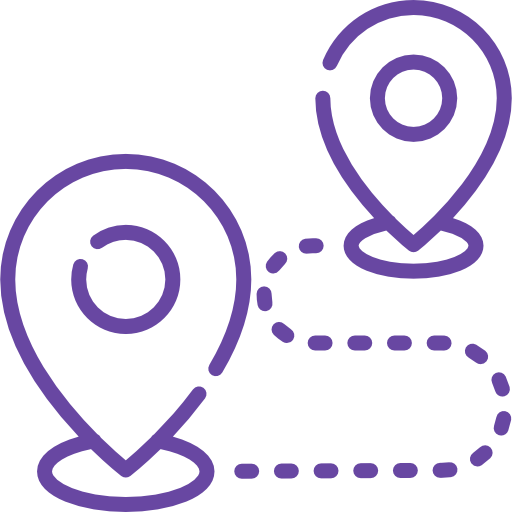
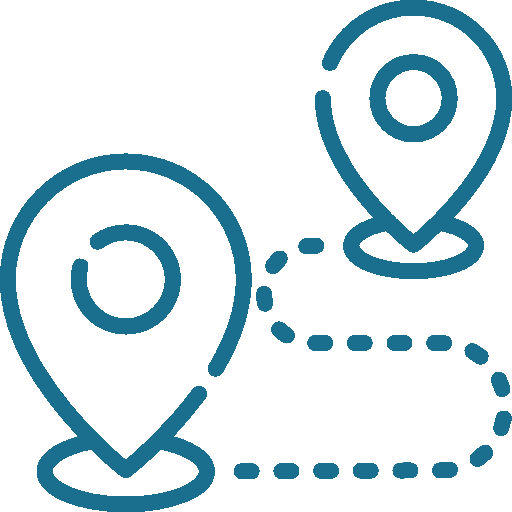
rebranding

diff --git a/public/css/style.css b/public/css/style.css
@@ -59,7 +59,7 @@ a:hover {
     text-decoration: none;
 }
 a:focus, a:hover {
-    color: #6847a2;
+    color: #196f8d;
    
 }
 .no-margin {
@@ -139,7 +139,7 @@ a:focus, a:hover {
 .nav>li.active>a:focus,
 .nav>li.active>a:hover {
     text-decoration: none;
-    background-color: #6847a2;
+    background-color: #196f8d;
     color: #fff;
 }
 
@@ -160,7 +160,7 @@ a:focus, a:hover {
     bottom: 0;
     left: 0;
     right: 0;
-    background-color:rgba(104, 71, 162, 0.70);
+    background-color:#196f8d;
 }
 
 .banner-head {
@@ -213,17 +213,17 @@ a:focus, a:hover {
     font-size: 12px;
     font-weight: 600;
     letter-spacing: 1px;
-    color: #6847a2;
+    color: #196f8d;
 }
 .banner-form h5:hover{
-    color: #6847a2 !important;
+    color: #196f8d !important;
 }
 
 .banner-form h5 i:hover{
-    color: #6847a2 !important;
+    color: #196f8d !important;
 }
 .banner-form h5 i {
-    color: #6847a2 !important;
+    color: #196f8d !important;
     -webkit-transition: all .1s cubic-bezier(.9, 0, .1, 1);
     transition: all .1s cubic-bezier(.9, 0, .1, 1);
 }
@@ -249,7 +249,7 @@ a:focus, a:hover {
 }
 
 .note-or a {
-    color: #6847a2;
+    color: #196f8d;
 }
 
 .note-or:hover a,
@@ -264,7 +264,7 @@ a:focus, a:hover {
     margin: 10px;
     font-weight: 500;
     font-size: 16px !important;
-    background-color: #6847a2;
+    background-color: #196f8d;
     color: #fff;
     border-radius: 30px;
     box-shadow: 1px 1px 5px #998daf;
@@ -317,7 +317,7 @@ a:focus, a:hover {
     font-size: 12px;
     font-weight: 600;
     letter-spacing: 1px;
-    color: #6847a2;
+    color: #196f8d;
 }
 
 .content-more i {
@@ -372,7 +372,7 @@ a:focus, a:hover {
     font-size: 12px;
     font-weight: 600;
     letter-spacing: 1px;
-    background-color: #6847a2;
+    background-color: #196f8d;
     color: #fff;
     padding: 15px 20px;
     display: inline-block;
@@ -380,7 +380,7 @@ a:focus, a:hover {
 }
 
 .content-more-btn i {
-    /*background-color: #6847a2;*/
+    /*background-color: #196f8d;*/
     color: #fff;
     -webkit-transition: all .1s cubic-bezier(.9, 0, .1, 1);
     transition: all .1s cubic-bezier(.9, 0, .1, 1);
@@ -437,7 +437,7 @@ a:focus, a:hover {
     border: none !important;
     border-radius: 0;
     padding: 25px 50px;
-    background-color: #6847a2;
+    background-color: #196f8d;
 }
 /*.find-form span button {
     border: 0;
@@ -445,7 +445,7 @@ a:focus, a:hover {
     border-radius: 0;
     height: 45px;
     padding: 10px 20px;
-    background-color: #6847a2;
+    background-color: #196f8d;
 }*/
 
 .find-form span button i {
@@ -922,9 +922,9 @@ html {
 .car-tab .nav-tabs li a:hover,
 .car-tab .nav-tabs li a:focus,
 .car-tab .nav-tabs li a:active {
-    color: #6847a2;
+    color: #196f8d;
     border: 0;
-    border-bottom: 4px solid #6847a2!important;
+    border-bottom: 4px solid #196f8d!important;
     background-color: transparent;
 }
 
@@ -984,7 +984,7 @@ html {
     border-radius: 0;
     height: 45px;
     padding: 10px 20px;
-    background-color: #6847a2;
+    background-color: #196f8d;
 }
 
 .fare-form span button i {
@@ -1043,7 +1043,7 @@ html {
     
     padding: 10px;
     
-    background-color: #6847a2;
+    background-color: #196f8d;
     color: #fff;
     text-align: left;
     display: block;
@@ -1158,7 +1158,7 @@ html {
 }
 
 .log-teal-btn {
-    background-color: #6847a2;
+    background-color: #196f8d;
     padding: 20px;
     display: block;
     color: #fff;
@@ -1173,7 +1173,7 @@ html {
 .log-teal-btn:hover,
 .log-teal-btn:focus,
 .log-teal-btn:active {
-    background-color: #6847a2;
+    background-color: #196f8d;
     color: #fff;
 }
 
@@ -1204,13 +1204,13 @@ html {
 }
 
 .helper a {
-    color: #6847a2;
+    color: #196f8d;
 }
 
 .helper a:hover,
 .helper a:focus,
 .helper a :active {
-    color: #6847a2;
+    color: #196f8d;
     text-decoration: none;
 }
 
@@ -1351,7 +1351,7 @@ input[type=checkbox] {
 }
 
 .more-btn{
-    background-color: #6847a2;
+    background-color: #196f8d;
     box-shadow: 1px 1px 5px #998daf;
     padding: 15px 20px;
     color: #fff;
@@ -1375,7 +1375,7 @@ input[type=checkbox] {
 .btn-title{    /*text-transform: uppercase;*/
     font-size: 25px;
     font-weight: 600;
-    color: #6847a2;
+    color: #196f8d;
     text-align: center;    font-family: sans-serif;}
 
     .btn-icon {
@@ -1402,7 +1402,7 @@ input[type=checkbox] {
     margin: 10px;
     font-weight: 500;
     font-size: 16px !important;
-    background-color: #6847a2;
+    background-color: #196f8d;
     color: #fff;
     border-radius: 30px;
     box-shadow: 1px 1px 5px #998daf;
@@ -1440,7 +1440,7 @@ input[type=checkbox] {
 }
 .white{color: #ffffff;}
 .socil-media ul li i {
-    color: #6847a2;
+    color: #196f8d;
 }
 .footer-social h2 {
     margin-bottom: 40px;
@@ -1465,8 +1465,8 @@ input[type=checkbox] {
     font-weight: 500;
     font-size: 16px !important;
     background-color: transparent;
-    border: 1px solid #6847a2;
-    color: #6847a2;
+    border: 1px solid #196f8d;
+    color: #196f8d;
     border-radius: 30px;
     box-shadow: 1px 1px 10px #cec8d8;
         transition: .2s all;
@@ -1474,7 +1474,7 @@ input[type=checkbox] {
 span.phone-icon i {
     position: relative;
     top: 20px;
-    color: #6847a2;
+    color: #196f8d;
 }
 *{outline: none;}
 
@@ -1499,9 +1499,9 @@ span.phone-icon i {
     margin-top: 8px;
     margin-right: 15px;
     margin-bottom: 8px;
-    background-color: #6847a2;
+    background-color: #196f8d;
     background-image: none;
-    border: 1px solid #6847a2;
+    border: 1px solid #196f8d;
     border-radius: 4px;
 }
 .navbar-toggle .icon-bar {

diff --git a/resources/views/home.blade.php b/resources/views/home.blade.php
@@ -43,7 +43,7 @@
                         <div class="collapse navbar-collapse" id="bs-example-navbar-collapse-1">
                             <ul class="nav navbar-nav">
                                 <li>
-                                    <a href="">Houston Rabbit</a>
+                                    <a href="" style="margin-left:-70px;">Houston Rabbit</a>
                                 </li>
                                 <!-- <li>
                                     <a href="">Drive</a>
